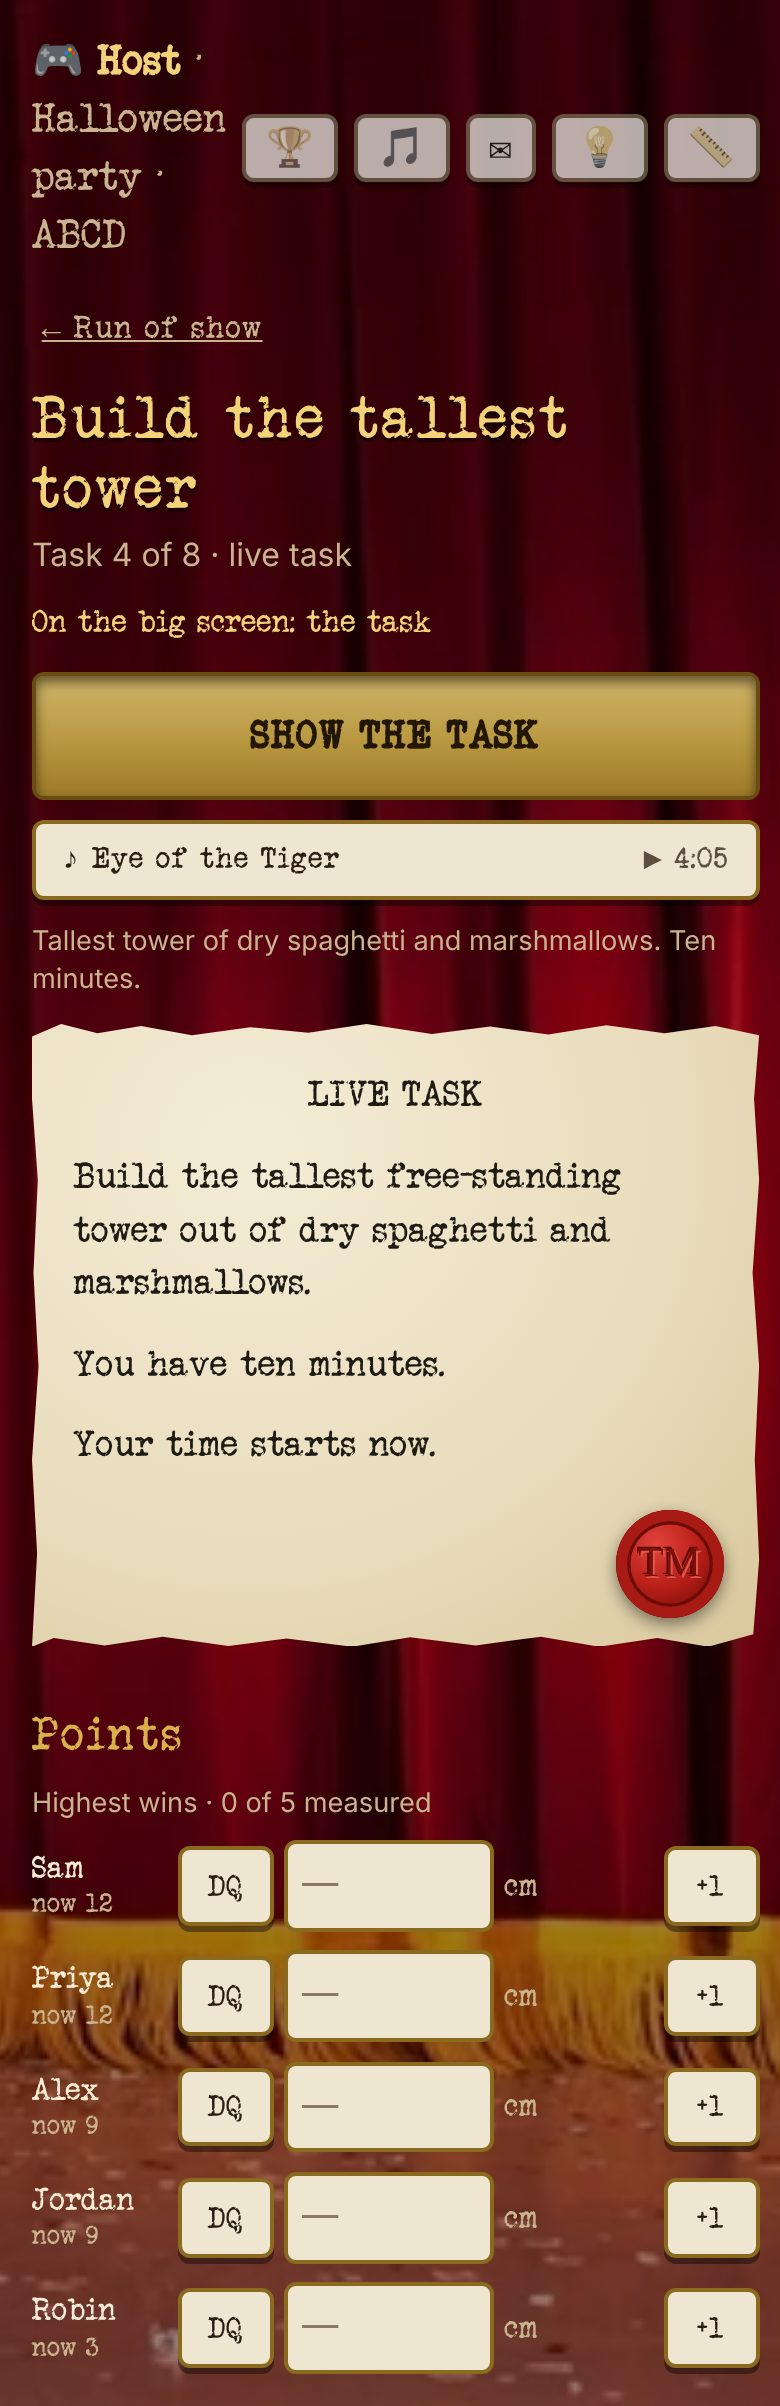
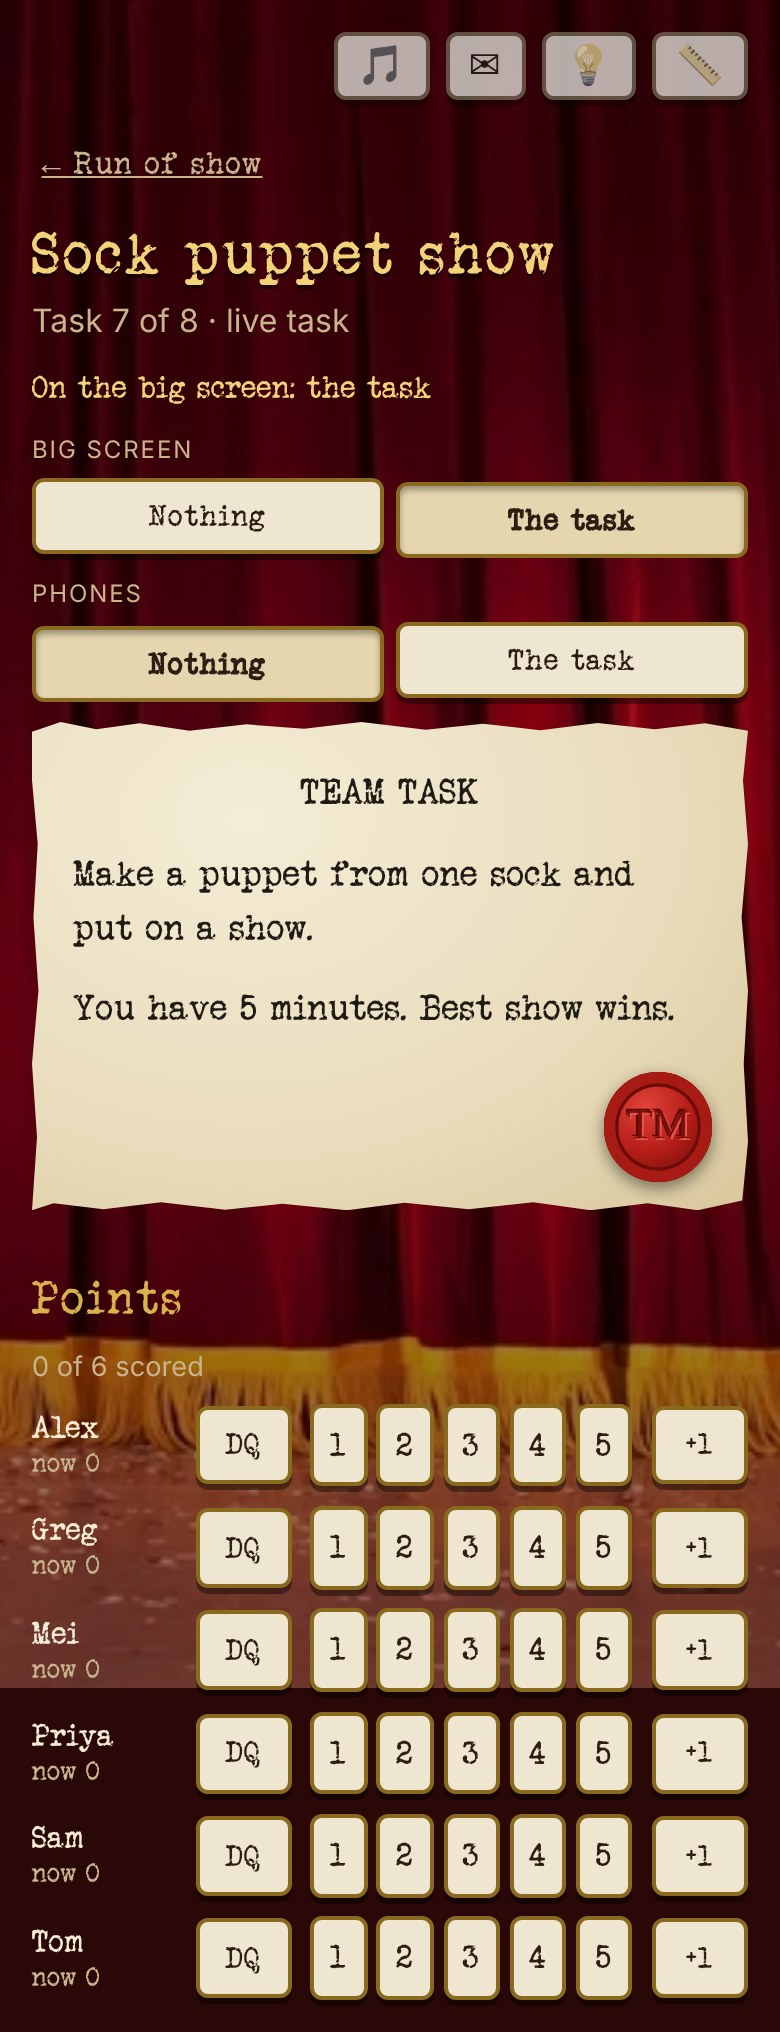
Task page: one-part live tasks and the tiebreaker get the same BIG SCREEN / PHONES radio rows
Claude-Session: https://claude.ai/code/session_017EZXwv2HsaVFnzxRVSaLaw

diff --git a/src/scoreboard/TaskPage.tsx b/src/scoreboard/TaskPage.tsx
@@ -9,7 +9,7 @@ import type { GameId, Session } from "../types";
 import { lowerCurtain, setTiebreakerWinner, showOnPhones, showTaskText, startTask, takeDownPhones } from "./data";
 import { Points } from "./Points";
 import { activeTaskId, list, scored, titleOf } from "./tasks";
-import { partsOf, TaskTextCard, TIEBREAKER_TYPE, tiebreakerWords, typeOf } from "./TaskText";
+import { partsOf, TaskTextCard, tiebreakerWords, typeOf } from "./TaskText";
 
 /**
  * Starts a task from Run of show or its page: the scores come down if they're up, the task before it is caught
@@ -41,7 +41,7 @@ function ShowTask({ code, session, task, gold, onShown }: { code: string; sessio
 }
 
 /**
- * A multi-part task: two rows of radio buttons, one for the big screen and one for the phones, each choosing nothing or
+ * A live task (or the tiebreaker): two rows of radio buttons, one for the big screen and one for the phones, each choosing nothing or
  * one part (each can be set apart from the other), then the cards to read from. Chosen is pressed in, never gold, since
  * putting a part up (or none) is the host's choice. "Part N" is for the host: the cards, the big screen and the phones never say it.
  */
@@ -60,9 +60,9 @@ function PartCards({ code, session, task, parts, phones }: { code: string; sessi
   );
 }
 
-/** One row of radio buttons on one line: Nothing, Part 1, Part 2… The chosen one is pressed in (`.choices.marks`). */
+/** One row of radio buttons on one line: Nothing, Part 1, Part 2… (or Nothing, The task when there's one part) The chosen one is pressed in (`.choices.marks`). */
 function PartPick({ label, up, count, onPick }: { label: string; up: number | undefined; count: number; onPick: (part: number | undefined) => void }) {
-  const options: [string, number | undefined][] = [["Nothing", undefined], ...Array.from({ length: count }, (_, i): [string, number] => [`Part ${i + 1}`, i])];
+  const options: [string, number | undefined][] = [["Nothing", undefined], ...Array.from({ length: count }, (_, i): [string, number] => [count === 1 ? "The task" : `Part ${i + 1}`, i])];
   return (
     <div className="part-pick" role="radiogroup" aria-label={label}>
       <span className="part-pick-label">{label}</span>
@@ -75,18 +75,6 @@ function PartPick({ label, up, count, onPick }: { label: string; up: number | un
   );
 }
 
-/**
- * "Show on phones" under the card of a one-part live task (or the tiebreaker): a quiet link, since it's rare, and apart
- * from the big screen's button. While it's up it says so and takes it down. (A task with parts has a row of radio buttons instead.)
- */
-function PhonesLink({ code, session, task, part }: { code: string; session: Session; task: string; part: number }) {
-  const up = session.phoneText?.task === task && (session.phoneText.part ?? 0) === part;
-  return (
-    <button type="button" className="link phones-link" aria-pressed={up}
-      onClick={() => void (up ? takeDownPhones(code) : showOnPhones(code, task, part))}>{up ? "Showing on phones · Take down" : "Show on phones"}</button>
-  );
-}
-
 /** The scores or the haul up while a task's page is open: the way back to the curtain. */
 function LowerIfUp({ code, session }: { code: string; session: Session }) {
   const step = session.display?.step;
@@ -96,7 +84,7 @@ function LowerIfUp({ code, session }: { code: string; session: Session }) {
 
 /**
  * One page for every task, live or app game (reached from Run of show): the task as the title, what's on the big
- * screen, gold "Show the task" when it has words, its song and note and the card to read from; then an app game's
+ * screen, "Show the task" (gold for an app game; a live task has radio rows) when it has words, its song and note and the card to read from; then an app game's
  * own controls; then the points, always open, ending in gold "Done" once everyone has them.
  */
 export function TaskPage({ code, session, id, onBack, onLight }: {
@@ -121,9 +109,9 @@ export function TaskPage({ code, session, id, onBack, onLight }: {
   const playing = activeTaskId(session) === id;
   const game = playing ? activeGame(session) : undefined;
   const parts = partsOf(task);
-  const multi = parts.length > 1;
-  // With parts there's no gold "Show the task": showing any of them is up to the host, so the game's own next step keeps the gold.
-  const textFirst = !!task.text && !multi && !textSeen && !textOn;
+  // A live task puts its words up by radio rows, never gold (it's the host's choice); only an app game has the gold "Show the task".
+  const rows = !task.game && parts.length > 0;
+  const textFirst = !!task.text && !rows && !textSeen && !textOn;
   const startable = task.game && task.game !== "light" && !playing;
   const top = (
     <>
@@ -134,12 +122,11 @@ export function TaskPage({ code, session, id, onBack, onLight }: {
       </div>
       <OnScreen code={code} session={session} />
       <LowerIfUp code={code} session={session} />
-      {task.text && !multi && <ShowTask code={code} session={session} task={id} gold={!task.game || textFirst} onShown={() => setTextSeen(true)} />}
+      {task.text && !rows && <ShowTask code={code} session={session} task={id} gold={textFirst} onShown={() => setTextSeen(true)} />}
       {task.song && <SongStrip code={code} session={session} song={task.song} />}
       {task.description && <p className="muted small sb-note">{task.description}</p>}
-      {task.text && !multi && <TaskTextCard type={typeOf(task)} text={task.text} />}
-      {task.text && !multi && !task.game && <PhonesLink code={code} session={session} task={id} part={0} />}
-      {multi && <PartCards code={code} session={session} task={id} parts={parts} phones={!task.game} />}
+      {task.text && !rows && <TaskTextCard type={typeOf(task)} text={task.text} />}
+      {rows && <PartCards code={code} session={session} task={id} parts={parts} phones />}
       {startable && (
         <button className={!scored(task) && !textFirst ? "big" : undefined} onClick={() => void beginTask(code, session, id)}>
           ▶ Start {titleOf(task)}
@@ -203,7 +190,6 @@ export function TiebreakerPage({ code, session, onBack }: { code: string; sessio
   const now = standing(session);
   const winner = now && "winner" in now ? now.winner : undefined;
   const tbParts = partsOf(tb && tiebreakerWords(tb));
-  const tbMulti = tbParts.length > 1;
   const won = (id: string) => {
     void setTiebreakerWinner(code, tb?.winner === id ? null : id);
     // Back up to the haul, which is what's next.
@@ -220,12 +206,9 @@ export function TiebreakerPage({ code, session, onBack }: { code: string; sessio
       <LowerIfUp code={code} session={session} />
       {/* Once someone has won, their haul is the one next thing. */}
       {winner && <button className="big" onClick={() => { void showHaul(code); onBack(); }}>🎁 Show the prize haul · {nameOf(winner)}</button>}
-      {tb?.text && !tbMulti && <ShowTask code={code} session={session} task="tiebreaker" gold={!winner} onShown={() => {}} />}
       {tb?.song && <SongStrip code={code} session={session} song={tb.song} />}
       {tb?.description && <p className="muted small sb-note">{tb.description}</p>}
-      {tb?.text && !tbMulti && <TaskTextCard type={tb.type || TIEBREAKER_TYPE} text={tb.text} />}
-      {tb?.text && !tbMulti && <PhonesLink code={code} session={session} task="tiebreaker" part={0} />}
-      {tbMulti && <PartCards code={code} session={session} task="tiebreaker" parts={tbParts} phones />}
+      {tbParts.length > 0 && <PartCards code={code} session={session} task="tiebreaker" parts={tbParts} phones />}
       {/* Fixed to the bottom, so whoever says it first is one tap away however far the story has scrolled. */}
       <div className="sb-won-bar">
         <p className="muted small">Tap who won.</p>

diff --git a/docs/guest-shots/shots.tsx b/docs/guest-shots/shots.tsx
@@ -64,6 +64,11 @@ function build() {
     text: "Build the tallest tower out of dice.\n\nYou have exactly 3 minutes. Tallest standing tower wins.",
     parts: [{ type: "Team", text: "Now join forces.\n\nBuild one tower together from every die you have. You have 2 minutes." }],
   };
+  // A live task with one part.
+  if (shot.includes("onepart")) tasks.t7 = {
+    order: 7, name: "Sock puppet show", type: "Team",
+    text: "Make a puppet from one sock and put on a show.\n\nYou have 5 minutes. Best show wins.",
+  };
   const session: Record<string, unknown> = {
     hostUid: "host", name: "Halloween party",
     players: Object.fromEntries(ids.filter((id) => checkedIn.has(id)).map((id, i) => [id, { name: people[id], joinedAt: i, contestant: id }])),
@@ -121,6 +126,9 @@ function build() {
     // The host put part 2 on every phone while part 1 is still on the big screen: the two are separate.
     case "host-parts-phones": set("display", { step: "tasktext", task: "t6" }); set("phoneText", { task: "t6", part: 1 }); set("begun", true); break;
     case "task-parts-phone": picked(); q.set("later", "1"); set("phoneText", { task: "t6", part: 1 }); set("begun", true); break;
+    // A live task with one part: the same two rows, "The task" in place of Part 1.
+    case "host-onepart": set("begun", true); break;
+    case "host-onepart-up": set("display", { step: "tasktext", task: "t7" }); set("begun", true); break;
     case "checkin-rules": case "checkin-pile": break;
     case "checkin-confirm": case "checkin-headshot": case "checkin-list": break;
   }
@@ -130,7 +138,7 @@ function build() {
 const { session, secret } = build();
 if (shot.startsWith("host-")) { (session as Record<string, unknown>).controllerUid = "host"; (session as Record<string, unknown>).hostUid = "owner"; }
 // On the noisemaster host page everyone has their secret task, and has looked, so the ✉ has no dot.
-if (shot.startsWith("host-parts") || shot === "host-noisemaster" || shot === "host-prize" || shot === "host-points" || shot === "host-run" || shot === "host-haul") { Object.assign(secret.assigned as object, SECRETS); secret.seen = Object.fromEntries(Object.keys(people).map((id) => [id, true])); }
+if (shot.startsWith("host-parts") || shot.startsWith("host-onepart") || shot === "host-noisemaster" || shot === "host-prize" || shot === "host-points" || shot === "host-run" || shot === "host-haul") { Object.assign(secret.assigned as object, SECRETS); secret.seen = Object.fromEntries(Object.keys(people).map((id) => [id, true])); }
 (window as unknown as { __uid: string }).__uid = who;
 const joined = shot !== "checkin-list";
 localStorage.clear();
@@ -142,7 +150,7 @@ if (joined && shot.startsWith("checkin")) {
   (session.scoreboard as { contestants: Record<string, { uid?: string }> }).contestants[who]!.uid = who;
 }
 if (shot === "checkin-list" || shot === "checkin-confirm") localStorage.setItem("ba.playCode", shot === "checkin-list" ? "" : "");
-if (shot.startsWith("host-")) { localStorage.setItem("ba.remoteCode", CODE); localStorage.setItem("ba.hostTab", JSON.stringify(shot === "host-run" || shot === "host-haul" ? { view: "show" } : shot === "host-secret" ? { view: "tasks" } : shot === "host-parts-edit" ? { view: "edit", task: "t6" } : shot.startsWith("host-parts") ? { view: "task", task: "t6" } : shot === "host-prize" || shot === "host-points" ? { view: "task", task: "t3" } : { view: "task", task: "t5" })); }
+if (shot.startsWith("host-")) { localStorage.setItem("ba.remoteCode", CODE); localStorage.setItem("ba.hostTab", JSON.stringify(shot === "host-run" || shot === "host-haul" ? { view: "show" } : shot === "host-secret" ? { view: "tasks" } : shot === "host-parts-edit" ? { view: "edit", task: "t6" } : shot.startsWith("host-parts") ? { view: "task", task: "t6" } : shot.startsWith("host-onepart") ? { view: "task", task: "t7" } : shot === "host-prize" || shot === "host-points" ? { view: "task", task: "t3" } : { view: "task", task: "t5" })); }
 seed({ sessions: { [CODE]: session }, secretTasks: { [CODE]: secret }, noisemasterSecrets: { [CODE]: { board: BOARD } } });
 if (shot === "checkin-list" || shot === "checkin-confirm") history.replaceState(null, "", `?code=${CODE}&shot=${shot}`);
 

diff --git a/src/styles.css b/src/styles.css
@@ -1240,7 +1240,6 @@ button.help-q:active { transform: none; box-shadow: none; }
 /* a part of a task's words in its ✎ (host remote only: the word "part" never reaches the big screen, a phone or the PDF) */
 .sb-part { display: grid; gap: 0.6rem; }
 .sb-part > .link, .extra-open > .link { justify-self: start; }
-.phones-link { justify-self: start; }
 .part-pick { display: grid; gap: 0.3rem; }
 .part-pick-label { font-size: 0.75rem; letter-spacing: 0.08em; text-transform: uppercase; color: var(--muted); }
 .part-pick .choices button { flex: 1 1 4rem; }

diff --git a/docs/style-guide.md b/docs/style-guide.md
@@ -202,8 +202,8 @@ See: [guest-home-waiting.jpg](screens/guest-home-waiting.jpg), [guest-home-prize
   6. A quiet "End the night now: declare the winner" under the list (the night can end before every task is played: one last update, then the haul).
   7. Quiet links at the bottom (`.run-links`): "Play a game that's not on the list" (or "Back to [BLANK] in a Box" while one is on), "Plan the party", "Show QR code", "Party settings" (the download button, "Reset scores…" and Disconnect). "Reset scores…" opens in place in an `.extra-open` panel: a **Clears** sentence and a muted **Keeps** sentence, counted for the party, an "Also remove guests" switch (off to start), then a paper button named for what it does and a `confirm()`. Never gold: a reset is never the night's next step. After it, the big screen goes back to the curtain. See: [host-reset-scores.jpg](screens/host-reset-scores.jpg).
 - **One task page for every task** (`TaskPage.tsx`), live task or app game: "← Run of show", the task as the `h1` (`.task-head`) with "Task 4 of 8 · live task" under it, the `.on-screen` line, then:
-  - gold **"Show the task"** when it has text: putting the words up is usually what comes next. While they're up it's pressed in (`button.big.pressed`: down 2px, inset shadow, a little darker), and tapping it again lowers the curtain. On an app game the gold moves on to the game's next step once the words have been up;
-  - a task with **parts** (a task's text in several pieces, each with its own heading, like an Individual part then a Team part) has no "Show the task". It has two rows of **radio buttons** (`.part-pick`, `role="radiogroup"`, each a `.choices.marks` row on one line): "BIG SCREEN" and "PHONES", each choosing **Nothing**, **Part 1**, **Part 2**… The chosen one is pressed in, never gold: putting a part up is the host's choice, and so is putting none up. The two rows are independent: part 1 can be on the big screen while part 2 is on the phones. Picking Nothing on the big screen lowers the curtain; picking another part swaps it. The `.on-screen` line says "the task, part 2". The cards sit under the rows, to read from. A one-part live task (or the tiebreaker) keeps the gold "Show the task" and has a quiet "Show on phones" link under its card (`.link.phones-link`: "Showing on phones · Take down" while it's up). **On a phone** the words are the same paper task card as on the host's phone (`TaskTextCard`: the part's own centred heading, the words as written), with no task name and no "Part N", under a status line "Here's the task. Read it, then put your phone away." (`phoneWordsOf`). **"Part N" is host-remote wording only**: the cards, the big screen, guests' phones and the PDF never say it, only each part's own heading. See: [task-parts-host.jpg](screens/task-parts-host.jpg), [task-parts-host-up.jpg](screens/task-parts-host-up.jpg), [task-parts-host-phones.jpg](screens/task-parts-host-phones.jpg), [task-parts-main.jpg](screens/task-parts-main.jpg), [guest-task-parts-phone.jpg](screens/guest-task-parts-phone.jpg);
+  - gold **"Show the task"** on an **app game** with text: putting the words up is usually what comes next. While they're up it's pressed in (`button.big.pressed`: down 2px, inset shadow, a little darker), and tapping it again lowers the curtain. On an app game the gold moves on to the game's next step once the words have been up;
+  - a **live task or the tiebreaker** with text (one part, or several: pieces each with their own heading, like an Individual part then a Team part) has no "Show the task". It has two rows of **radio buttons** (`.part-pick`, `role="radiogroup"`, each a `.choices.marks` row on one line): "BIG SCREEN" and "PHONES", each choosing **Nothing**, **Part 1**, **Part 2**… (**The task** when there is only one part) The chosen one is pressed in, never gold: putting a part up is the host's choice, and so is putting none up. The two rows are independent: part 1 can be on the big screen while part 2 is on the phones. Picking Nothing on the big screen lowers the curtain; picking another part swaps it. The `.on-screen` line says "the task, part 2". The cards sit under the rows, to read from. **On a phone** the words are the same paper task card as on the host's phone (`TaskTextCard`: the part's own centred heading, the words as written), with no task name and no "Part N", under a status line "Here's the task. Read it, then put your phone away." (`phoneWordsOf`). **"Part N" is host-remote wording only**: the cards, the big screen, guests' phones and the PDF never say it, only each part's own heading. See: [task-parts-host.jpg](screens/task-parts-host.jpg), [task-parts-host-up.jpg](screens/task-parts-host-up.jpg), [task-parts-host-phones.jpg](screens/task-parts-host-phones.jpg), [task-parts-main.jpg](screens/task-parts-main.jpg), [guest-task-parts-phone.jpg](screens/guest-task-parts-phone.jpg);
   - the song strip (`SongStrip.tsx`, `.sb-song`: "♪ title ▶ 2:40", a small remote for the jukebox), the host's note, and the task card to read from;
   - for an app game, its own controls, unchanged: gold "First up: Sam →", the running order, "◫ Show everyone". A contestant on the big screen gets their own controls a step inside, and lowering the curtain comes back here. Once everyone has been shown, the gold button gives way to a muted "All 5 shown." An app game that isn't on yet has "▶ Start Photos: best costume" (gold until it has points);
   - **Points**, always open at the bottom (`Points.tsx`), and once everyone has points, gold "Done: back to Run of show →".

diff --git a/docs/screens/README.md b/docs/screens/README.md
@@ -126,8 +126,8 @@ Scoreboard (taken on 2026-10-12, from the real components with made-up sessions;
 | `run-of-show-host.jpg` | The remote's home between tasks: "On the big screen: the curtain", the "Up next" card with gold "Start task 4 →", paper "Show the scoreboard" with "Opens on the scores before …", the read-only task list with one state each, and "Plan the party", "Show QR code", "Party settings" at the bottom. The header is four icons, with the party name and code under the title (2026-10-18) |
 | `run-of-show-host-scores-up.jpg` | The scores up: the scoreboard's controls take the top slot, gold "Update the scores" with "On the big screen: the scores, before Hum a theme tune", "Lower the curtain" as a link, and the "Up next" card's button paper (2026-10-18) |
 | `run-of-show-host-scores-updated.jpg` | After the update: gold "Lower the curtain" alone in the top slot, the pending note gone (2026-10-18) |
-| `task-page-host-live.jpg` | A live task's page: "← Run of show", the task as the title, "Task 4 of 8 · live task", gold "Show the task", the song strip, the note, the task card, then Points with a number box (2026-10-18) |
-| `task-page-host-live-up.jpg` | The same with its words on the big screen: "On the big screen: the task", "Show the task" pressed in (2026-10-18) |
+| `task-page-host-live.jpg` | A live task's page: "← Run of show", the task as the title, "Task 4 of 8 · live task", the BIG SCREEN and PHONES rows of radio buttons (Nothing / The task, Nothing pressed in), the song strip, the note, the task card, then Points with a number box (2026-10-18) |
+| `task-page-host-live-up.jpg` | The same with its words on the big screen: "On the big screen: the task", "The task" pressed in on the BIG SCREEN row (2026-10-18) |
 | `task-parts-host.jpg` | A task with two parts: "Dice tower" with two rows of radio buttons, BIG SCREEN and PHONES, each Nothing · Part 1 · Part 2 with Nothing pressed in, then the Individual and Team cards to read from (2026-10-18) |
 | `task-parts-host-up.jpg` | The same with part 2 on the big screen: "On the big screen: the task, part 2", BIG SCREEN set to Part 2 and PHONES still Nothing (2026-10-18) |
 | `task-parts-main.jpg` | The big screen with part 2 up: only the TEAM TASK card, no word "part" (2026-10-18) |
@@ -206,10 +206,10 @@ Task text (taken on 2026-10-18, from the real components with a made-up party; t
 |---|---|
 | `run-of-show-host-task-text-edit.jpg` | "Change" on a live task's task text: "Task type (optional)" with the heading it makes, then "Task text (optional)" grown to fit the story, Done and "✕ Remove task text"; the song and unit stay as summary lines (2026-10-18) |
 | `run-of-show-host-tiebreaker-text-edit.jpg` | The tiebreaker's task text opened with "Change": no type picked, so "Heads the task text: TIEBREAKER TASK." (2026-10-18) |
-| `tiebreaker-host-text.jpg` | The tiebreaker's page with its text: gold "Show the task", the song, the note, the story on the task card (TIEBREAKER TASK centred), and "Tap who won." fixed to the bottom with Sam and Priya side by side (2026-10-18) |
+| `tiebreaker-host-text.jpg` | The tiebreaker's page with its text: gold "Show the task", the song, the note, the story on the task card (TIEBREAKER TASK centred), and "Tap who won." fixed to the bottom with Sam and Priya side by side (2026-10-18; older shot: the page now has the BIG SCREEN and PHONES radio rows in place of "Show the task") |
 | `tiebreaker-host-text-mid.jpg` | The same page scrolled mid-story: the bar stays at the bottom |
-| `tiebreaker-host-text-won.jpg` | Priya tapped as "won the tiebreaker": gold "🎁 Show the prize haul · Priya" with paper "Show the task" under it (2026-10-18) |
-| `tiebreaker-host-text-up.jpg` | The story on the big screen: "On the big screen: the task", the gold button pressed in (tap it again to lower the curtain) (2026-10-18) |
+| `tiebreaker-host-text-won.jpg` | Priya tapped as "won the tiebreaker": gold "🎁 Show the prize haul · Priya" with paper "Show the task" under it (2026-10-18; older shot: the page now has the BIG SCREEN and PHONES radio rows in place of "Show the task") |
+| `tiebreaker-host-text-up.jpg` | The story on the big screen: "On the big screen: the task", the gold button pressed in (tap it again to lower the curtain) (2026-10-18; older shot: the page now has the BIG SCREEN and PHONES radio rows in place of "Show the task") |
 | `scoreboard-host-points-text.jpg` | A live task's points page with its text: INDIVIDUAL TASK on the card under the note, "Show the task" under "Show the scoreboard" |
 | `scoreboard-host-points-text-up.jpg` | The same with its text on the big screen |
 | `main-task-text.jpg` | The big screen: the tiebreaker's story on the task card, centred on the curtain, TIEBREAKER TASK centred at the top, the type shrunk to fit |
